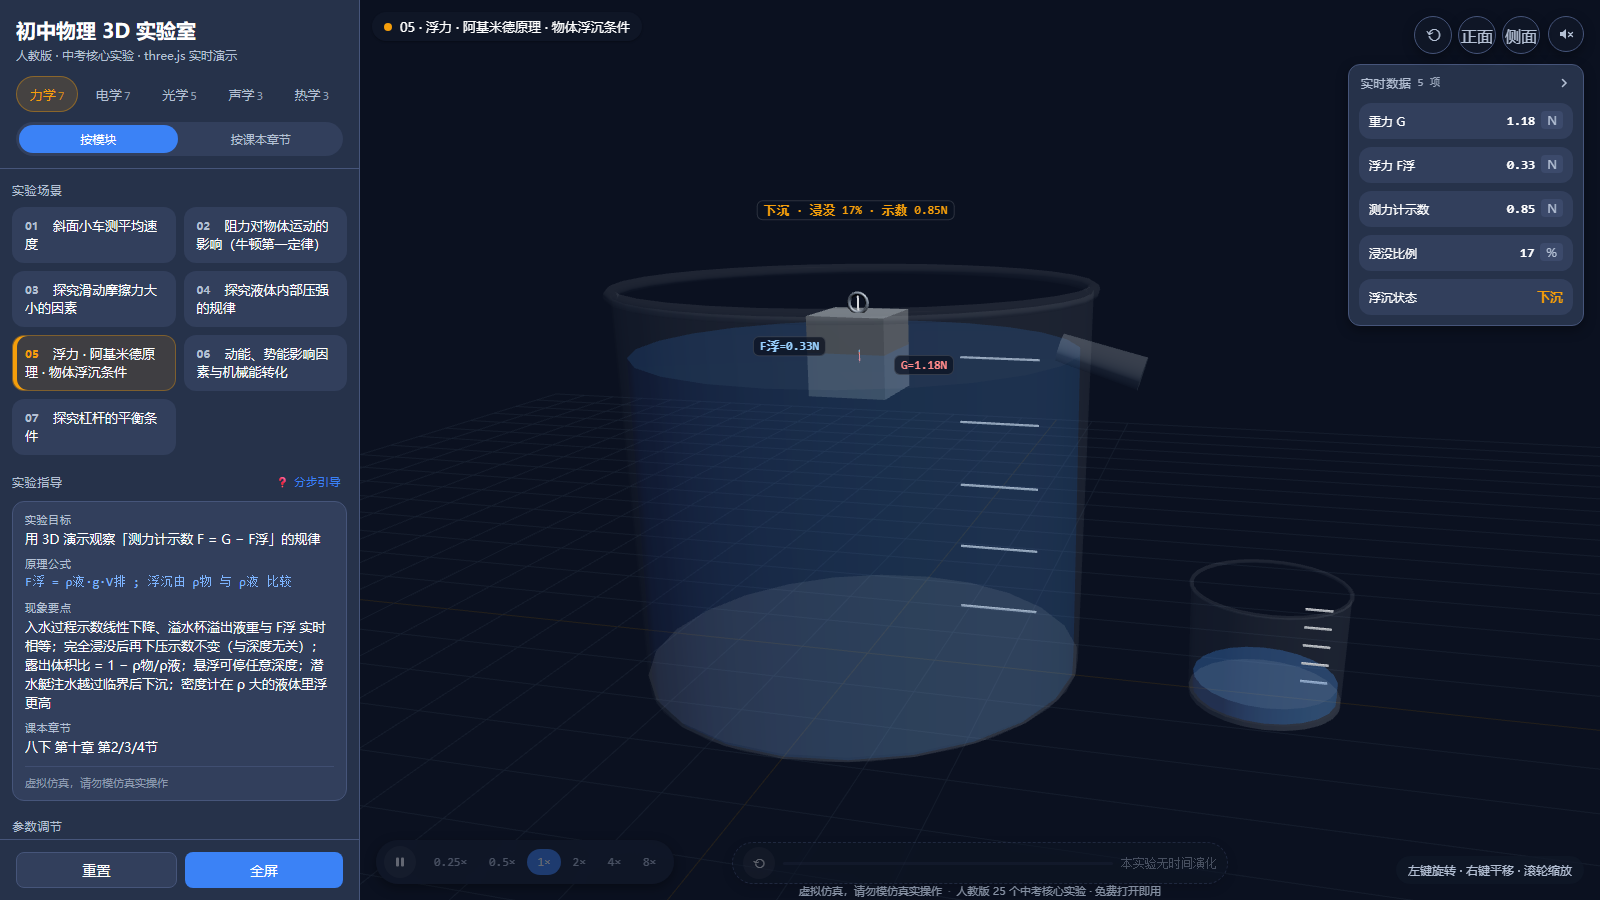
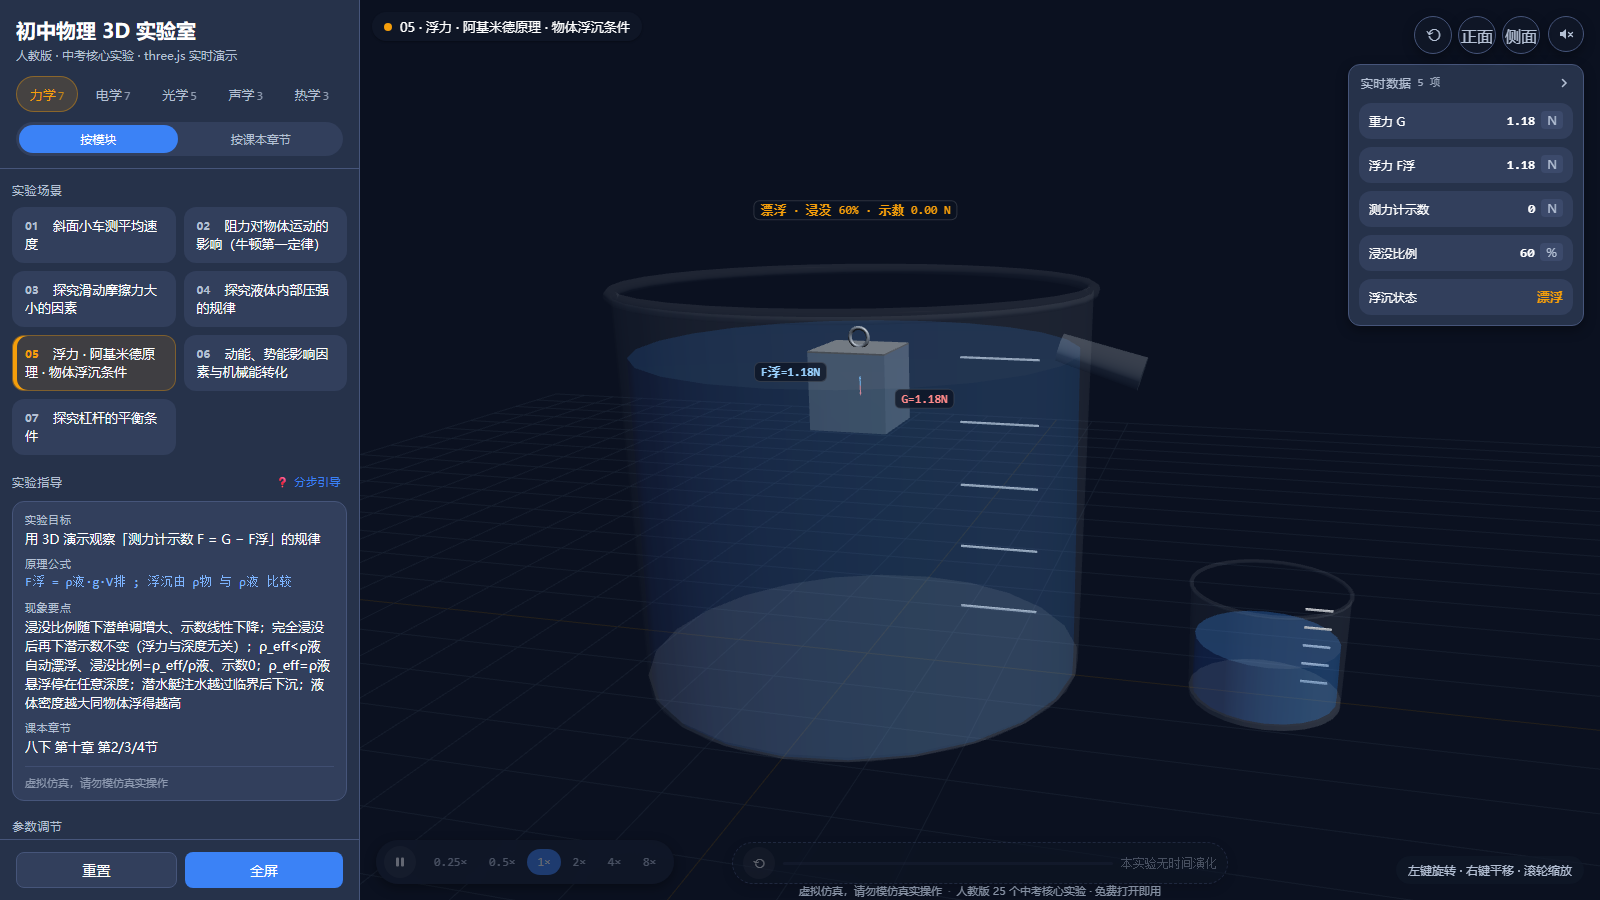
A7 one-key balance buttons (balance-left / balance-right)

diff --git a/release/physics-3d-lab/index.html b/release/physics-3d-lab/index.html
@@ -4,7 +4,7 @@
 <meta charset="utf-8">
 <meta name="viewport" content="width=device-width, initial-scale=1">
 <title>初中物理 3D 可视化实验室</title>
-<meta name="build-version" content="99e67c8">
+<meta name="build-version" content="7849e34">
 <link rel="icon" href="data:,">
 <script type="importmap">
 { "imports": { "three": "./vendor/three.module.js", "three/addons/": "./vendor/addons/" } }
@@ -91,6 +91,11 @@ input[type=range]:focus-visible::-moz-range-thumb{box-shadow:var(--shadow-glow)}
 .gd-zero{font-size:12px;line-height:18px;color:#F5B04C;background:rgba(245,176,76,.08);border-radius:var(--radius-md);padding:6px 8px}
 .gd-safe{font-size:11px;color:var(--color-text-secondary);opacity:.7;border-top:1px solid var(--color-border);padding-top:8px;margin-top:2px}
 .tab{height:36px;border:1px solid transparent;border-radius:var(--radius-full);background:transparent;color:var(--color-text-secondary);font-size:13px;cursor:pointer;transition:background var(--dur-fast),color var(--dur-fast);white-space:nowrap}
+/* ---------- 实验动作按钮（meta.actions → exp.actions 转发，如 A7 一键平衡） ---------- */
+.exp-actions{display:flex;gap:8px;margin-top:14px}
+.exp-action{flex:1;height:36px;padding:0 10px;border-radius:var(--radius-md);background:var(--color-surface);border:1px solid var(--color-border);color:var(--color-text);font-size:13px;cursor:pointer;transition:background var(--dur-fast),border-color var(--dur-fast),color var(--dur-fast)}
+.exp-action:hover{background:var(--color-surface-hover);border-color:var(--color-primary)}
+.exp-action:active{transform:translateY(1px)}
 .tab:hover{background:var(--color-surface)}
 .tab.active{background:rgba(var(--tab-rgb),.15);color:var(--tab-c);border-color:rgba(var(--tab-rgb),.4)}
 .tab .tcount{font-family:var(--font-mono);font-size:12px;opacity:.75;margin-left:2px}
@@ -1036,6 +1041,24 @@ function renderParams(meta){
     blk.dataset.pid = p.id;                              // 控件归属直查，不再靠文本反推
     box.appendChild(blk);
   });
+  if(Array.isArray(meta.actions) && meta.actions.length){  // 实验动作按钮（如 A7 一键平衡）：只渲染+转发，算法在 exp.actions
+    const aw = el('div', 'exp-actions');
+    meta.actions.forEach(a => {
+      const b = el('button', 'exp-action');
+      b.type = 'button';
+      b.dataset.action = a.id;
+      b.textContent = a.label;
+      if(a.desc) b.title = a.desc;
+      b.addEventListener('click', () => {
+        const exp = current && current.exp;
+        const fn = exp && exp.actions && exp.actions[a.id];
+        if(typeof fn === 'function'){ try{ fn.call(exp); }catch(e){ console.error('[action:'+a.id+']', e); toast('操作失败，详见控制台'); } }
+        else toast(a.label + '：' + (a.desc || '当前实验暂未实现'));
+      });
+      aw.appendChild(b);
+    });
+    box.appendChild(aw);
+  }
   renderReadouts();
 }
 function makeParamBlock(p){

diff --git a/docs/app/index.html b/docs/app/index.html
@@ -91,6 +91,11 @@ input[type=range]:focus-visible::-moz-range-thumb{box-shadow:var(--shadow-glow)}
 .gd-zero{font-size:12px;line-height:18px;color:#F5B04C;background:rgba(245,176,76,.08);border-radius:var(--radius-md);padding:6px 8px}
 .gd-safe{font-size:11px;color:var(--color-text-secondary);opacity:.7;border-top:1px solid var(--color-border);padding-top:8px;margin-top:2px}
 .tab{height:36px;border:1px solid transparent;border-radius:var(--radius-full);background:transparent;color:var(--color-text-secondary);font-size:13px;cursor:pointer;transition:background var(--dur-fast),color var(--dur-fast);white-space:nowrap}
+/* ---------- 实验动作按钮（meta.actions → exp.actions 转发，如 A7 一键平衡） ---------- */
+.exp-actions{display:flex;gap:8px;margin-top:14px}
+.exp-action{flex:1;height:36px;padding:0 10px;border-radius:var(--radius-md);background:var(--color-surface);border:1px solid var(--color-border);color:var(--color-text);font-size:13px;cursor:pointer;transition:background var(--dur-fast),border-color var(--dur-fast),color var(--dur-fast)}
+.exp-action:hover{background:var(--color-surface-hover);border-color:var(--color-primary)}
+.exp-action:active{transform:translateY(1px)}
 .tab:hover{background:var(--color-surface)}
 .tab.active{background:rgba(var(--tab-rgb),.15);color:var(--tab-c);border-color:rgba(var(--tab-rgb),.4)}
 .tab .tcount{font-family:var(--font-mono);font-size:12px;opacity:.75;margin-left:2px}
@@ -1036,6 +1041,24 @@ function renderParams(meta){
     blk.dataset.pid = p.id;                              // 控件归属直查，不再靠文本反推
     box.appendChild(blk);
   });
+  if(Array.isArray(meta.actions) && meta.actions.length){  // 实验动作按钮（如 A7 一键平衡）：只渲染+转发，算法在 exp.actions
+    const aw = el('div', 'exp-actions');
+    meta.actions.forEach(a => {
+      const b = el('button', 'exp-action');
+      b.type = 'button';
+      b.dataset.action = a.id;
+      b.textContent = a.label;
+      if(a.desc) b.title = a.desc;
+      b.addEventListener('click', () => {
+        const exp = current && current.exp;
+        const fn = exp && exp.actions && exp.actions[a.id];
+        if(typeof fn === 'function'){ try{ fn.call(exp); }catch(e){ console.error('[action:'+a.id+']', e); toast('操作失败，详见控制台'); } }
+        else toast(a.label + '：' + (a.desc || '当前实验暂未实现'));
+      });
+      aw.appendChild(b);
+    });
+    box.appendChild(aw);
+  }
   renderReadouts();
 }
 function makeParamBlock(p){

diff --git a/docs/app/exp/mechanics.js b/docs/app/exp/mechanics.js
@@ -1344,6 +1344,37 @@ const A7 = {
     this._phys = null;
     this._physReady = false;
   },
+  // —— 一键平衡（CEO 规格 docs/design/A7-一键平衡按钮规格.md §2/§3.1）——
+  // 网格枚举 helper：在另一侧 F×L 100 个组合中，误差最小 → 曼哈顿距离最小 → 先枚举者（f 小到大、l 小到大）。
+  // 网格常量与 experiments.json 的 A7 min/step 同步（改 JSON 必须同步这里）。
+  pickBalance(fCur, lCur, target) {
+    let best = null;
+    for (let i = 0; i < 10; i++) {
+      const f = 0.5 + i * 0.5;                 // F 网格：0.5 → 5.0 步进 0.5（共 10 档）
+      for (let l = 1; l <= 10; l++) {          // L 网格：1 → 10 步进 1（共 10 档）
+        const err = Math.abs(f * l - target);
+        const mh = Math.abs(f - fCur) + Math.abs(l - lCur);
+        if (!best || err < best.err || (err === best.err && mh < best.mh)) {
+          best = { f, l, err, mh };
+        }
+      }
+    }
+    return [best.f, best.l];
+  },
+  actions: {
+    'balance-left'() {   // 以左边为基准：保 F1/L1，调 F2/L2 使力矩相等
+      const target = Number(this.p.f1 || 1) * Number(this.p.l1 || 1);
+      const [f2, l2] = this.pickBalance(Number(this.p.f2 || 1), Number(this.p.l2 || 1), target);
+      this.ctx.ui.setParamValue('f2', f2);
+      this.ctx.ui.setParamValue('l2', l2);
+    },
+    'balance-right'() {  // 以右边为基准：保 F2/L2，调 F1/L1 使力矩相等
+      const target = Number(this.p.f2 || 1) * Number(this.p.l2 || 1);
+      const [f1, l1] = this.pickBalance(Number(this.p.f1 || 1), Number(this.p.l1 || 1), target);
+      this.ctx.ui.setParamValue('f1', f1);
+      this.ctx.ui.setParamValue('l1', l1);
+    },
+  },
 };
 
 /* ===================== 右侧统计面板读数 =====================

diff --git a/release/physics-3d-lab/exp/mechanics.js b/release/physics-3d-lab/exp/mechanics.js
@@ -1344,6 +1344,37 @@ const A7 = {
     this._phys = null;
     this._physReady = false;
   },
+  // —— 一键平衡（CEO 规格 docs/design/A7-一键平衡按钮规格.md §2/§3.1）——
+  // 网格枚举 helper：在另一侧 F×L 100 个组合中，误差最小 → 曼哈顿距离最小 → 先枚举者（f 小到大、l 小到大）。
+  // 网格常量与 experiments.json 的 A7 min/step 同步（改 JSON 必须同步这里）。
+  pickBalance(fCur, lCur, target) {
+    let best = null;
+    for (let i = 0; i < 10; i++) {
+      const f = 0.5 + i * 0.5;                 // F 网格：0.5 → 5.0 步进 0.5（共 10 档）
+      for (let l = 1; l <= 10; l++) {          // L 网格：1 → 10 步进 1（共 10 档）
+        const err = Math.abs(f * l - target);
+        const mh = Math.abs(f - fCur) + Math.abs(l - lCur);
+        if (!best || err < best.err || (err === best.err && mh < best.mh)) {
+          best = { f, l, err, mh };
+        }
+      }
+    }
+    return [best.f, best.l];
+  },
+  actions: {
+    'balance-left'() {   // 以左边为基准：保 F1/L1，调 F2/L2 使力矩相等
+      const target = Number(this.p.f1 || 1) * Number(this.p.l1 || 1);
+      const [f2, l2] = this.pickBalance(Number(this.p.f2 || 1), Number(this.p.l2 || 1), target);
+      this.ctx.ui.setParamValue('f2', f2);
+      this.ctx.ui.setParamValue('l2', l2);
+    },
+    'balance-right'() {  // 以右边为基准：保 F2/L2，调 F1/L1 使力矩相等
+      const target = Number(this.p.f2 || 1) * Number(this.p.l2 || 1);
+      const [f1, l1] = this.pickBalance(Number(this.p.f1 || 1), Number(this.p.l1 || 1), target);
+      this.ctx.ui.setParamValue('f1', f1);
+      this.ctx.ui.setParamValue('l1', l1);
+    },
+  },
 };
 
 /* ===================== 右侧统计面板读数 =====================

diff --git a/release/physics-3d-lab/sw.js b/release/physics-3d-lab/sw.js
@@ -1,5 +1,5 @@
 /* Service Worker：整站本地缓存 —— 打开过一次后，全部资源走本地缓存，秒开、断网也能用。
- * 版本号 99e67c8 由 tools/make-release.ps1 在发布时替换为 git 短哈希：
+ * 版本号 7849e34 由 tools/make-release.ps1 在发布时替换为 git 短哈希：
  * 每次发布自动换缓存名；新 SW 安装完成后清掉旧缓存，保证新旧版本绝不混用。
  * 策略（为发布一致性 + 跨境提速而设计）：
  *   - 安装：容错 precache 核心清单（某项失败不影响整体安装），skipWaiting 立即接管
@@ -8,7 +8,7 @@
  *     「新 HTML + 旧 JS」的混合状态（发布后第一次打开仍是旧版，刷新一次即新版）
  *   - 其他同源 GET：cache-first，miss 才走网络并写入缓存
  */
-const VERSION = '99e67c8';
+const VERSION = '7849e34';
 const CACHE = 'phlab-' + VERSION;
 
 const PRECACHE = [

diff --git a/docs/app/stitch-a7-balance.py b/docs/app/stitch-a7-balance.py
@@ -1,0 +1,33 @@
+# -*- coding: utf-8 -*-
+# A7 一键平衡三联对比图：默认已平衡 / 点左基准配平 / 点右基准配平
+import os
+from PIL import Image, ImageDraw, ImageFont
+
+ROOT = os.path.dirname(os.path.abspath(__file__))
+SRC = os.path.join(ROOT, "shots", "a7-balance")
+OUT = os.path.join(SRC, "a7-balance-compare-3way.png")
+FONT = None
+for p in [r"C:\Windows\Fonts\msyhbd.ttc", r"C:\Windows\Fonts\msyhl.ttc", r"C:\Windows\Fonts\simhei.ttf"]:
+    if os.path.exists(p):
+        FONT = p
+        break
+
+files = [
+    ("a7-balance-default.png", "默认 F1=2·L1=4 / F2=4·L2=2 已平衡，两按钮不动参数"),
+    ("a7-balance-left.png", "扰动 F2=3·L2=5 → 点「以左边为基准」：F2=2·L2=4，8 N·m 配平"),
+    ("a7-balance-right.png", "扰动 F1=3.5·L1=7 → 点「以右边为基准」：F1=1·L1=8，8 N·m 配平"),
+]
+imgs = [Image.open(os.path.join(SRC, f)) for f, _ in files]
+w = max(i.width for i in imgs)
+h = sum(i.height for i in imgs) + 130 * len(imgs)
+canvas = Image.new("RGB", (w, h), (24, 26, 34))
+font = ImageFont.truetype(FONT, 44) if FONT else ImageFont.load_default()
+y = 0
+for (f, cap), img in zip(files, imgs):
+    draw = ImageDraw.Draw(canvas)
+    draw.text((24, y + 24), cap, fill=(255, 232, 138), font=font)
+    y += 130
+    canvas.paste(img, (0, y))
+    y += img.height
+canvas.save(OUT)
+print("SAVED", OUT, canvas.size)

diff --git a/docs/design/A7-一键平衡按钮规格.md b/docs/design/A7-一键平衡按钮规格.md
@@ -1,0 +1,107 @@
+# A7 杠杆平衡：一键平衡按钮（双按钮）规格
+
+> 状态：定稿（CEO 2026-11-22）。用户拍板「两个按钮，一个是以左边为基准，另一个以右边为基准」。
+> 实施分工：外壳/渲染层（index.html + experiments.json 元数据）→ 前端工程师；实验实现（exp/mechanics.js 的 A7）→ 3D渲染师。
+
+## 1. 需求
+
+A7 参数面板（动力 F1 / 动力臂 L1 / 阻力 F2 / 阻力臂 L2 四个滑块）下方加一排两个按钮：
+
+1. **以左边为基准**：保持 F1、L1 不变，自动调整 F2、L2 使 F1·L1 = F2·L2（力矩相等、杠杆水平平衡）。
+2. **以右边为基准**：保持 F2、L2 不变，自动调整 F1、L1 使 F1·L1 = F2·L2。
+
+点击按钮后：杠杆立即平衡（`duration` 变 0、时间条置灰、状态标签显示「平衡（保持水平）」、`t` 归零），滑块数值同步更新，与手动拖动滑块结果完全一致。
+
+## 2. 配平算法（实验实现内，确定性）
+
+- 网格（与 experiments.json 的 A7 滑块定义一致，改动 JSON 时必须同步此网格）：
+  - F 网格：0.5 → 5.0，步进 0.5（共 10 档：0.5, 1, 1.5, …, 5）
+  - L 网格：1 → 10，步进 1（共 10 档：1, 2, …, 10）
+- target = 基准侧力矩（以左为基准时 target = f1·l1；以右为基准时 target = f2·l2）。
+- 在另一侧的 F×L 全部 100 个组合中挑选：
+  1. 误差 `err = |f·l − target|` 最小者；
+  2. 误差并列时，取与当前滑块值的曼哈顿距离 `|f − fCur| + |l − lCur|` 最小者；
+  3. 仍并列时取先枚举到者（f 从小到大、l 从小到大）。
+- 由于基准侧的 f、l 本身就在网格内（target = f1·l1 必可精确表示），误差最小解通常是 err = 0 的精确平衡；算法必须能 return 精确组合，不允许返回「误差还可再小」的非精确值。
+- 结果确定性：同一参数组合点击按钮，两次结果逐位一致。
+
+## 3. 实现位置与接口
+
+### 3.1 实验实现（3D渲染师 · exp/mechanics.js · A7 对象内）
+
+新增 `actions` 字段，外壳点击按钮时按 id 调用：
+
+```js
+actions: {
+  'balance-left'() {   // 以左边为基准
+    const target = this.p.f1 * this.p.l1;
+    const [f2, l2] = pickBalance(this.p.f2, this.p.l2, target);
+    this.ctx.ui.setParamValue('f2', f2);
+    this.ctx.ui.setParamValue('l2', l2);
+  },
+  'balance-right'() {  // 以右边为基准
+    const target = this.p.f2 * this.p.l2;
+    const [f1, l1] = pickBalance(this.p.f1, this.p.l1, target);
+    this.ctx.ui.setParamValue('f1', f1);
+    this.ctx.ui.setParamValue('l1', l1);
+  },
+}
+```
+
+- `pickBalance(fCur, lCur, target)` 为 A7 内的网格枚举 helper，规则见第 2 节；网格常量写在 helper 旁并注释「与 experiments.json 的 A7 min/step 同步」。
+- **必须走 `ctx.ui.setParamValue` 写回滑块**：它写入 `store.params` + 标记 pending + 刷新滑块 UI，经外壳 rAF 合并后触发 `onParam` → `recompute()` → `_render(0)`，读书/标签/时间条自动更新。禁止直接改 `this.p` 再手动调 recompute（会绕过滑块 UI 同步）。
+- 不改动其余物理逻辑（刚体重建、铰链限位、TOL、duration 分支等全部保持现状）。
+
+### 3.2 外壳渲染层（前端工程师 · index.html + experiments.json）
+
+**experiments.json**：A7 条目（id 为 `"A7-lever"`）加：
+
+```json
+"actions": [
+  { "id": "balance-left", "label": "以左边为基准", "desc": "保持 F1、L1 不变，自动调整 F2、L2 使力矩相等" },
+  { "id": "balance-right", "label": "以右边为基准", "desc": "保持 F2、L2 不变，自动调整 F1、L1 使力矩相等" }
+]
+```
+
+**index.html `renderParams`**：在参数块全部渲染之后（`forEach(p => …)` 之后、`renderReadouts()` 之前）追加：
+
+```js
+if(Array.isArray(meta.actions) && meta.actions.length){
+  const aw = el('div', 'exp-actions');
+  meta.actions.forEach(a => {
+    const b = el('button', 'exp-action');
+    b.type = 'button';
+    b.dataset.action = a.id;
+    b.textContent = a.label;
+    if(a.desc) b.title = a.desc;
+    b.addEventListener('click', () => {
+      const exp = current && current.exp;
+      const fn = exp && exp.actions && exp.actions[a.id];
+      if(typeof fn === 'function'){ try{ fn.call(exp); }catch(e){ console.error('[action:'+a.id+']', e); toast('操作失败，详见控制台'); } }
+      else toast(a.label + '：' + (a.desc || '当前实验暂未实现'));
+    });
+    aw.appendChild(b);
+  });
+  box.appendChild(aw);
+}
+```
+
+（id 命名 `balance-left`/`balance-right` 与 exp.actions 的键一一对应，外壳只做「渲染 + 转发」，不含任何实验算法。）
+
+**样式**（深色主题、走 var(--color-*)）：
+
+```css
+.exp-actions{display:flex;gap:8px;margin-top:14px}
+.exp-action{flex:1;height:36px;padding:0 10px;border-radius:var(--radius-md);background:var(--color-surface);border:1px solid var(--color-border);color:var(--color-text);font-size:13px;cursor:pointer;transition:background var(--dur-fast),border-color var(--dur-fast),color var(--dur-fast)}
+.exp-action:hover{background:var(--color-surface-hover);border-color:var(--color-accent)}
+.exp-action:active{transform:translateY(1px)}
+```
+
+## 4. 验收标准（CEO 复验，发布前）
+
+1. A7 默认态（f1=2/l1=4/f2=4/l2=2，已平衡）：点任一按钮，参数不变或仍在网格内、`duration=0`、标签「平衡（保持水平）」。
+2. 扰动后（如 f1=3.5、l1=7，或 f2=0.5、l2=3）：点「以左边为基准」，右侧滑块同步更新、F1·L1 与 F2·L2 读数码（双数值条）相等、梁水平静止、时间条置灰；点「以右边为基准」对称。
+3. 任意参数组合下点按钮：`net=0`（或网格内最小误差，无因浮点产生的 |net|>0.05 抖动）；滑块 UI 数值与 store.params 一致；无 console 报错。
+4. 两个按钮同时存在、布局不溢出、对比度达标（深色主题、无阴影、不缩字号）。
+5. 探针脚本 `docs/app/probe-a7-balance.mjs`（CEO 出，3D渲染师可先提供关键数值）全绿。
+6. 发布：main + gh-pages 双分支，线上 curl 确认新代码生效。

diff --git a/docs/app/ui-probe-report.md b/docs/app/ui-probe-report.md
@@ -1,6 +1,6 @@
 # UI→引擎通路探针报告
 
-时间：2026-11-22T11:24:32.372Z
+时间：2026-11-22T12:36:42.206Z
 方法：包裹每个实验的 exp.onParam 计数；滑杆用原生 input 事件、枚举用真实点击驱动；每控件触发后等 2 帧再读计数。
 
 | 实验 | 控件 | 类型 | onParam 送达 | 判定 |
